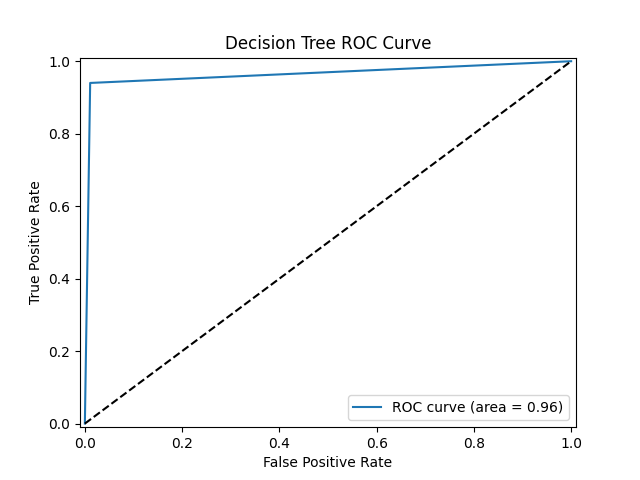
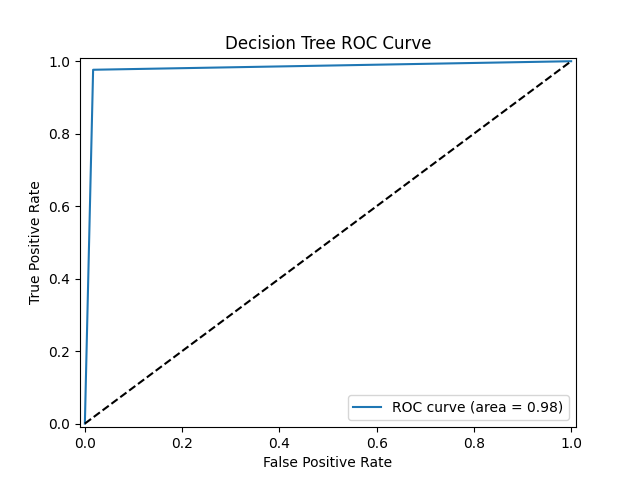
Update figures

Changed region(s): [[0.125, 0.125, 0.875, 0.6875], [0.125, 0.7188, 0.1562, 0.7812]]

diff --git a/final-report/scikit-learn-sgd.py b/final-report/scikit-learn-sgd.py
@@ -89,7 +89,7 @@ plt.xlim([-0.01, 1.01])
 plt.ylim([-0.01, 1.01])
 plt.xlabel('False Positive Rate')
 plt.ylabel('True Positive Rate')
-plt.title('SGD ROC Curve')
+plt.title('Stochastic Gradient Descent ROC Curve')
 plt.legend(loc="lower right")
-# plt.savefig('logistic-regressionROC.png')
+plt.savefig('scikitSGD-ROC.png')
 plt.show()

diff --git a/final-report/decision-tree.py b/final-report/decision-tree.py
@@ -129,7 +129,7 @@ X_train, y_train = X[train_idx], y[train_idx]
 X_val, y_val = X[val_idx], y[val_idx]
 
 # Train the decision tree
-tree = DecisionTree(max_depth=3)
+tree = DecisionTree(max_depth=5)
 tree.fit(X_train, y_train)
 
 # Make predictions on the validation set

diff --git a/final-report/scikit-learn-ridge.py b/final-report/scikit-learn-ridge.py
@@ -89,5 +89,5 @@ plt.xlabel('False Positive Rate')
 plt.ylabel('True Positive Rate')
 plt.title('Ridge Regression ROC Curve')
 plt.legend(loc="lower right")
-# plt.savefig('logistic-regressionROC.png')
+plt.savefig('scikitridgeROC.png')
 plt.show()

diff --git a/final-report/logistic-reg.py b/final-report/logistic-reg.py
@@ -86,7 +86,7 @@ def false_positives(y_true, y_pred):
     return fp
 
 # Train logistic regression model
-alpha = 1
+alpha = 0.5
 num_iters = 1000
 theta, j_history = logistic_regression(X_train, y_train, alpha, num_iters)
 
